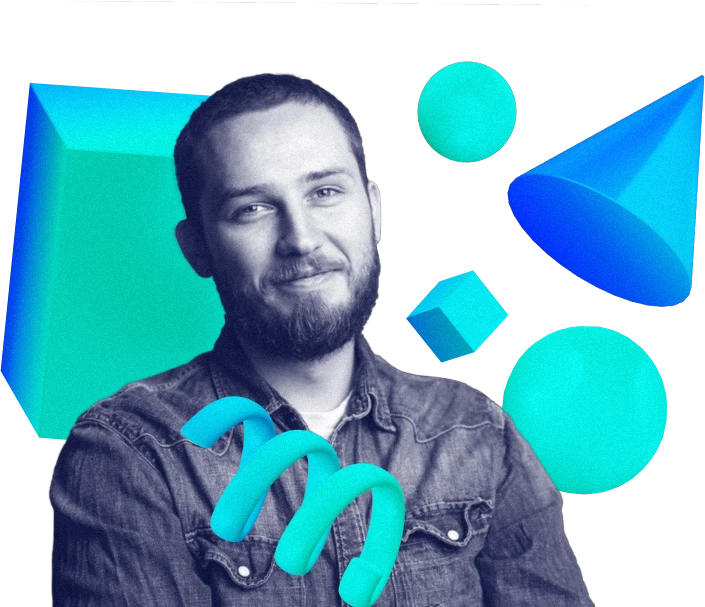
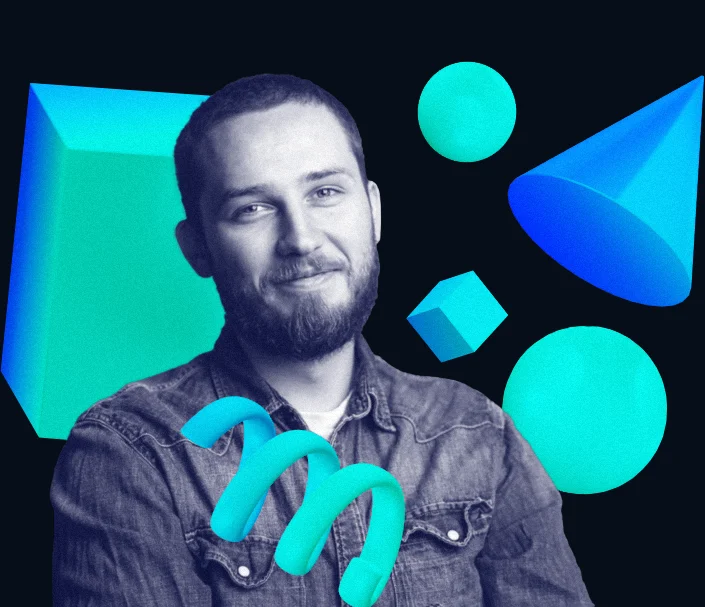
fix: solid bento bg (#060e18), Grafmobile without alpha

diff --git a/css/home.css b/css/home.css
@@ -1044,9 +1044,7 @@
     grid-template-columns: 1fr;
     padding: 0;
     min-height: auto;
-    background:
-      linear-gradient(180deg, rgba(6,14,24,0.7) 0%, rgba(6,14,24,0.15) 40%, rgba(6,14,24,0.65) 100%),
-      url('../Figma/placeholder_hero1.webp') center/cover no-repeat;
+    background: #060e18;
   }
   .hm-hero__text { padding: 48px 48px 36px; gap: 24px; }
   .hm-hero__pills { gap: 12px; }
